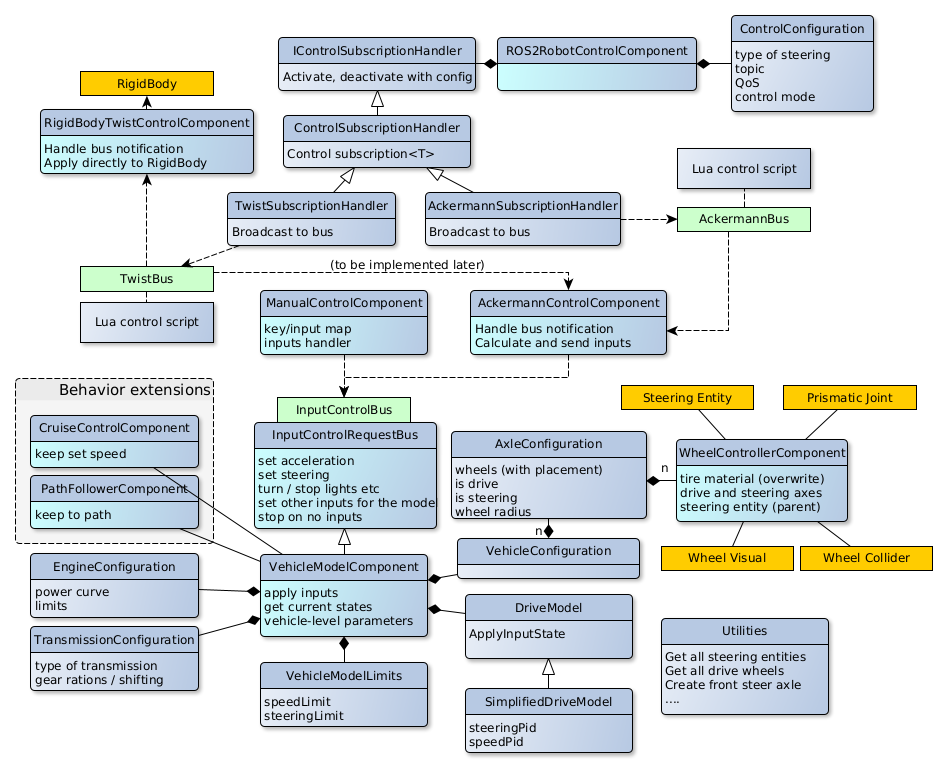
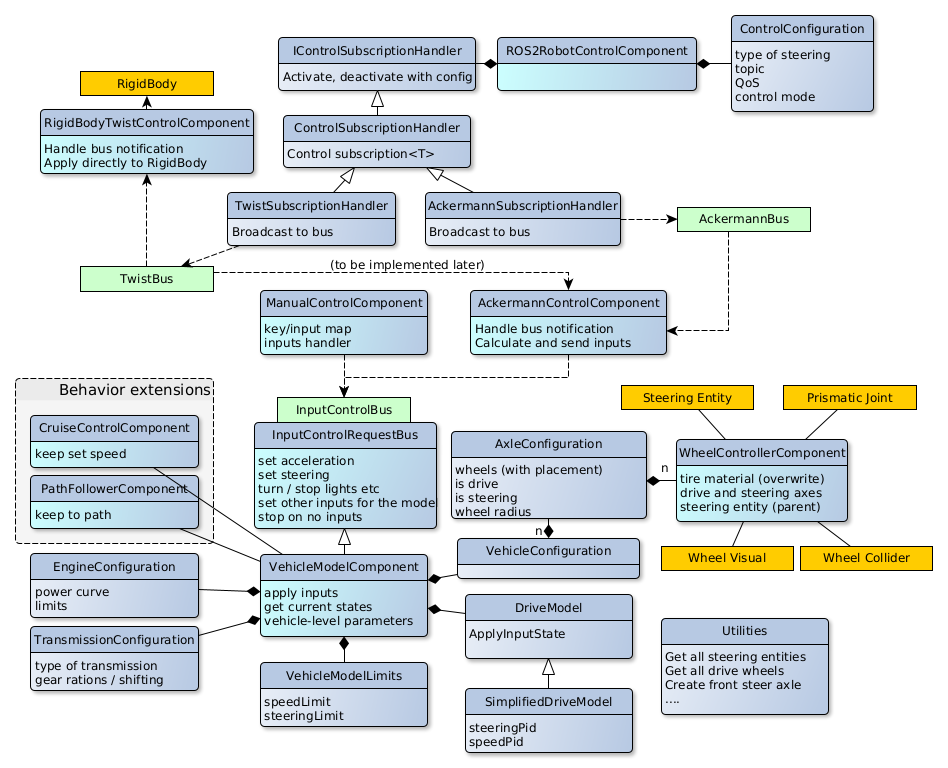
Applied review comments - Improved documentation and diagrams - Removed Buses implementations which were not doing anything

Changed region(s): [[0.0612, 0.375, 0.2447, 0.4688], [0.7036, 0.1875, 0.8565, 0.25]]

diff --git a/Code/Source/VehicleDynamics/Utilities.h b/Code/Source/VehicleDynamics/Utilities.h
@@ -16,10 +16,32 @@
 
 namespace VehicleDynamics::Utilities
 {
+    //! Helper function to create the most common two wheel axle out of existing wheel entities.
+    //! @param leftWheel Left wheel entity. It needs a WheelControllerComponent if it is a drive or steering axis.
+    //! @param rightWheel Right wheel entity. It needs a WheelControllerComponent if it is a drive or steering axis.
+    //! @param tag Additional information for the user (and reflected in the configuration) about what this axle is.
+    //! @param wheelRadius Radius for both wheels, in meters. Wheels with different radii are not supported.
+    //! @param steering Is this axle used for vehicle steering. If so, wheels need to have steering entities set in WheelControlComponents.
+    //! @param drive Is this axle used to drive vehicle.
+    //! @returns An axle configuration created according to call parameters.
     AxleConfiguration Create2WheelAxle(
         AZ::EntityId leftWheel, AZ::EntityId rightWheel, AZStd::string tag, float wheelRadius, bool steering, bool drive);
+
+    //! Helper function to create an axle for both steering and drive, named "Front". @see Create2WheelAxle.
     AxleConfiguration CreateFrontSteerAndDriveAxle(AZ::EntityId leftWheel, AZ::EntityId rightWheel, float wheelRadius);
+
+    //! Helper function to create an axle for drive, named "Rear". @see Create2WheelAxle.
     AxleConfiguration CreateRearDriveAxle(AZ::EntityId leftWheel, AZ::EntityId rightWheel, float wheelRadius);
+
+    //! Retrieve all steering entities for a given vehicle configuration.
+    //! @param vehicleConfig Vehicle configuration to process.
+    //! @returns This function will only return data for properly set up steering entities and raise warnings if something is not right.
+    //! Wheels with a WheelControllerComponent need a SteeringEntity set, and the axle must be a steering axle.
     AZStd::vector<VehicleDynamics::SteeringDynamicsData> GetAllSteeringEntitiesData(const VehicleConfiguration& vehicleConfig);
+
+    //! Retrieve all drive entities for a given vehicle configuration.
+    //! @param vehicleConfig Vehicle configuration to process.
+    //! @returns This function will only return data for properly set up wheels and raise warnings if something is not right.
+    //! Wheels need a WheelControllerComponent, and the axle must be a drive axle.
     AZStd::vector<VehicleDynamics::WheelDynamicsData> GetAllDriveWheelsData(const VehicleConfiguration& vehicleConfig);
 } // namespace VehicleDynamics::Utilities

diff --git a/Code/Source/VehicleDynamics/VehicleInputControlBus.h b/Code/Source/VehicleDynamics/VehicleInputControlBus.h
@@ -25,15 +25,15 @@ namespace VehicleDynamics
         //! @param speedMps is a linear speed in meters per second with the plus sign in the forward direction.
         virtual void SetTargetLinearSpeed(float speedMps) = 0;
 
-        //! Accelerate without target speed.
-        //! @param acceleration is relative to limits of possible acceleration.
-        //! 1.0 - accelerate as much as possible, -1.0 - brake as much as possible.
-        virtual void SetTargetAcceleration(float acceleration) = 0;
-
         //! Steer in a direction given in relative coordinate system (current direction is 0).
         //! @param steering is angle in radians, positive to the right and negative to the left.
         //! Note that the actual angle applied is subject to limits and implementation (e.g. smoothing).
         virtual void SetTargetSteering(float steering) = 0;
+
+        //! Accelerate without target speed, relative to the limits.
+        //! @param acceleration is relative to limits of possible acceleration.
+        //! 1 - accelerate as much as possible, -1 - brake as much as possible.
+        virtual void SetTargetAccelerationFraction(float accelerationFraction) = 0;
 
         //! Steer input version which is relative to limits.
         //! @param steering is -1 to 1, which applies as a fraction of vehicle model steering limits.

diff --git a/Code/Source/RobotControl/Ackermann/AckermannBus.h b/Code/Source/RobotControl/Ackermann/AckermannBus.h
@@ -18,26 +18,10 @@ namespace ROS2
     class AckermannNotifications : public AZ::EBusTraits
     {
     public:
-        static const AZ::EBusHandlerPolicy HandlerPolicy = AZ::EBusHandlerPolicy::Single;
-        static const AZ::EBusAddressPolicy AddressPolicy = AZ::EBusAddressPolicy::Single;
-
         //! Handle Ackermann command
         //! @param ackermannCommand A structure with AckermannDrive message fields
         virtual void AckermannReceived(const AckermannCommandStruct& angular) = 0;
     };
 
     using AckermannNotificationBus = AZ::EBus<AckermannNotifications>;
-
-    //! This simple handler can be used for prototyping using LUA scripting
-    class AckermannNotificationHandler
-        : public AckermannNotificationBus::Handler
-        , public AZ::BehaviorEBusHandler
-    {
-    public:
-        AZ_EBUS_BEHAVIOR_BINDER(
-            AckermannNotificationHandler, "{A6A2011B-8A76-4ACE-B5EF-6DD6F8F1E5DF}", AZ::SystemAllocator, AckermannReceived);
-
-        void AckermannReceived(const AckermannCommandStruct& angular) override;
-        static void Reflect(AZ::ReflectContext* context);
-    };
 } // namespace ROS2

diff --git a/Code/Source/RobotControl/Twist/TwistBus.h b/Code/Source/RobotControl/Twist/TwistBus.h
@@ -18,9 +18,6 @@ namespace ROS2
     class TwistNotifications : public AZ::EBusTraits
     {
     public:
-        static const AZ::EBusHandlerPolicy HandlerPolicy = AZ::EBusHandlerPolicy::Single;
-        static const AZ::EBusAddressPolicy AddressPolicy = AZ::EBusAddressPolicy::Single;
-
         //! Handle control command
         //! @param linear Linear speed in each axis, in robot reference frame, in m/s.
         //! @param angular Angular speed in each axis, in robot reference frame, in m/s.
@@ -28,16 +25,4 @@ namespace ROS2
     };
 
     using TwistNotificationBus = AZ::EBus<TwistNotifications>;
-
-    //! This simple handler can be used for prototyping using LUA scripting
-    class TwistNotificationHandler
-        : public TwistNotificationBus::Handler
-        , public AZ::BehaviorEBusHandler
-    {
-    public:
-        AZ_EBUS_BEHAVIOR_BINDER(TwistNotificationHandler, "{CD26E702-6F40-4FF9-816D-4DCB652D97DF}", AZ::SystemAllocator, TwistReceived);
-
-        void TwistReceived(const AZ::Vector3& v, const AZ::Vector3& a) override;
-        static void Reflect(AZ::ReflectContext* context);
-    };
 } // namespace ROS2

diff --git a/Code/Source/VehicleDynamics/VehicleModelComponent.h b/Code/Source/VehicleDynamics/VehicleModelComponent.h
@@ -37,9 +37,10 @@ namespace VehicleDynamics
     private:
         void OnTick(float deltaTime, AZ::ScriptTimePoint time) override;
 
+        //! @see VehicleInputControlRequests
         void SetTargetLinearSpeed(float speedMps) override;
-        void SetTargetAcceleration(float acceleration) override;
         void SetTargetSteering(float steering) override;
+        void SetTargetAccelerationFraction(float accelerationFraction) override;
         void SetTargetSteeringFraction(float steeringFraction) override;
         void SetTargetLinearSpeedFraction(float speedFraction) override;
 

diff --git a/Code/Source/VehicleDynamics/VehicleModelComponent.cpp b/Code/Source/VehicleDynamics/VehicleModelComponent.cpp
@@ -88,9 +88,9 @@ namespace VehicleDynamics
         m_inputsState.m_speed.UpdateValue(speedFraction * m_vehicleLimits.m_speedLimit);
     }
 
-    void VehicleModelComponent::SetTargetAcceleration([[maybe_unused]] float acceleration)
+    void VehicleModelComponent::SetTargetAccelerationFraction([[maybe_unused]] float accelerationFraction)
     {
-        AZ_Error("SetTargetAcceleration", false, "Not implemented");
+        AZ_Error("SetTargetAccelerationFraction", false, "Not implemented");
     }
 
     void VehicleModelComponent::SetTargetSteering(float steering)

diff --git a/Code/Source/VehicleDynamics/VehicleConfiguration.h b/Code/Source/VehicleDynamics/VehicleConfiguration.h
@@ -14,7 +14,7 @@
 
 namespace VehicleDynamics
 {
-    //! Drive and steering configuration for a vehicle
+    //! Drive and steering configuration for a vehicle. The class only holds axle information now but it is meant to be expanded.
     class VehicleConfiguration
     {
     public:

diff --git a/docs/guides/ros2-gem.md b/docs/guides/ros2-gem.md
@@ -1,14 +1,14 @@
-## ROS 2 Gem
+# ROS 2 Gem
 
 The Gem and its build instructions can be found in [this repository](https://github.com/RobotecAI/o3de-ros2-gem). The
 ROS 2 Gem helps to build robotic simulations with [ROS 2 / Robot Operating System](https://www.ros.org/). For an example
 of use see [Warehouse Demo Project](https://github.com/RobotecAI/Ros2WarehouseDemo).
 
-## Doxygen documentation
+## Gem classes documentation
 
 You can browse Doxygen-generated documentation on [Gem's GitHub page](https://robotecai.github.io/o3de-ros2-gem/).
 
-## Components overview
+# Components overview
 
 - __Central Singleton__
   - ROS2SystemComponent
@@ -21,9 +21,9 @@ You can browse Doxygen-generated documentation on [Gem's GitHub page](https://ro
   - ROS2IMUComponent
   - ROS2LidarComponent
 - __Robot control__
-    - ROS2RobotControlComponent
-    - AckermannControlComponent
-    - RigidBodyTwistControlComponent
+  - ROS2RobotControlComponent
+  - AckermannControlComponent
+  - RigidBodyTwistControlComponent
 - __Spawner__
   - ROS2SpawnerComponent
 - __Vehicle dynamics__
@@ -32,9 +32,9 @@ You can browse Doxygen-generated documentation on [Gem's GitHub page](https://ro
 - __Robot Import (URDF) system component__
   - ROS2RobotImporterSystemComponent
   
-## The Gem and ROS 2 ecosystem
+# The Gem and ROS 2 ecosystem
 
-### Supported Platforms and versions
+## Supported Platforms and versions
 
 The Gem is currently Linux-only and is being tested with ROS 2 Humble on Ubuntu 22.04 as well as ROS 2 Galactic with
 Ubuntu 20.04.
@@ -55,12 +55,12 @@ you [source](https://docs.ros.org/en/galactic/Tutorials/Workspace/Creating-A-Wor
 you want to use. You can check which version is sourced in your console by checking the value of `ROS_DISTRO`
 environment variable (`echo $ROS_DISTRO`).
 
-### ROS 2 Concepts
+## ROS 2 Concepts
 
 Please refer to [ROS 2 Concepts documentation](https://docs.ros.org/en/humble/Concepts.html) if you are not familiar
 with how ROS 2 works.
 
-### Structure and Communication
+## Structure and Communication
 
 The Gem creates a [ROS 2 node](https://docs.ros.org/en/galactic/Tutorials/Understanding-ROS2-Nodes.html) which is
 directly a part of ROS 2 ecosystem. As such, your simulation will not use any bridges to communicate and is subject to
@@ -81,7 +81,7 @@ m_myPublisher = ros2Node->create_publisher<sensor_msgs::msg::PointCloud2>(fullTo
 Note that QoS class is a simple wrapper
 to [rclcpp::QoS](https://docs.ros2.org/galactic/api/rclcpp/classrclcpp_1_1QoS.html).
 
-#### Frames
+### Frames
 
 `ROS2FrameComponent` is a representation of an interesting physical part of the robot. It handles spatio-temporal
 relationship between this part and other frames of reference. It also encapsulates namespaces, which help to distinguish
@@ -89,7 +89,7 @@ between different robots and different parts of the robot, such as in case of mu
 
 All Sensors and the Robot Control Component require `ROS2FrameComponent`.
 
-#### Sensors
+### Sensors
 
 Sensors are Components deriving from `ROS2SensorComponent`. They acquire data from the simulated environment and publish
 it to ROS 2 domain.
@@ -101,7 +101,7 @@ it to ROS 2 domain.
 If you intend to add your own sensor, it might be useful to look at how sensors already provided within the Gem are
 implemented.
 
-#### Robot Control
+### Robot Control
 
 The Gem comes with `ROS2RobotControlComponent`, which you can use to move your robot through:
 
@@ -123,7 +123,7 @@ Twist messages.
 
 It is possible to implement your own control mechanisms with this Component.
 
-#### Vehicle Model
+### Vehicle Model
 
 `VehicleModelComponent` serves the purpose of converting inputs such as target velocity, steering or acceleration to
 physical forces on parts of a vehicle (robot).
@@ -132,7 +132,7 @@ physical forces on parts of a vehicle (robot).
 The model requires a `WheelControllerComponent` present in each wheel entity. It also uses an implementation
 of `DriveModel`, which converts vehicle inputs to forces acting on steering elements and wheels.
 
-**Simplified drive model**
+#### Simplified drive model
 
 The only implementation of `DriveModel` available at this moment is the `SimplifiedDriveModel`. It
 uses [PID controllers](https://en.wikipedia.org/wiki/PID_controller)
@@ -140,13 +140,13 @@ from [control_toolbox](https://github.com/ros-controls/control_toolbox) package.
 to work with default parameters. The user should tune PID parameters manually. They are exposed through
 the `VehicleModel` component parameters.
 
-**Manual control**
+#### Manual control
 
 The `VehicleModel` will handle input events with names "steering" and "accelerate". This means you can add
 an [InputComponent](https://www.o3de.org/docs/user-guide/components/reference/gameplay/input/) to the same entity and
 define an input map for your input devices (such as keyboard or a game pad) to control the vehicle manually.
 
-**Design document**
+#### Design document
 
 To understand how vehicle dynamics works, please refer to the
 [design document](../design/vehicle_dynamics/design.md) and
@@ -158,7 +158,7 @@ Twist messages.
 
 It is possible to implement your own control mechanisms with this Component.
 
-#### Spawner
+### Spawner
 
 `ROS2SpawnerComponent` handles spawning entities during simulation.
 Available spawnables have to be set up as the component's field before the simulation.
@@ -170,7 +170,7 @@ During the simulation user can access names of available spawnables and request 
 - Available spawnable names access: names of available spawnables are sent in response.model_names
   - example call: `ros2 service call /get_available_spawnable_names gazebo_msgs/srv/GetWorldProperties`
 
-### Handling custom ROS 2 dependencies
+## Handling custom ROS 2 dependencies
 
 The ROS 2 Gem will respect your choice of [__
 sourced__](https://docs.ros.org/en/galactic/Tutorials/Workspace/Creating-A-Workspace.html#source-the-overlay) ROS 2
@@ -183,7 +183,7 @@ target_depends_on_ros2_packages(<your_target> <ros_package1> <ros_package2>)
 
 in your project's `Gem/CMakeLists.txt`.
 
-##### Example
+#### Example
 
 It could be the case that you need to create new type of sensor publishing a custom message.
 
@@ -199,7 +199,7 @@ workspace
 Remember to __always have your ROS 2 overlay sourced__ when building and running the project as sourcing provides
 visibility of ROS 2 package paths.
 
-## Diagram of classes
+# Diagram of classes
 
 Some classes with relationships and functions are presented on this diagram. Specific sensor classes (e.g. Lidar) are
 not included. Some classes are presented in sub-diagrams:
